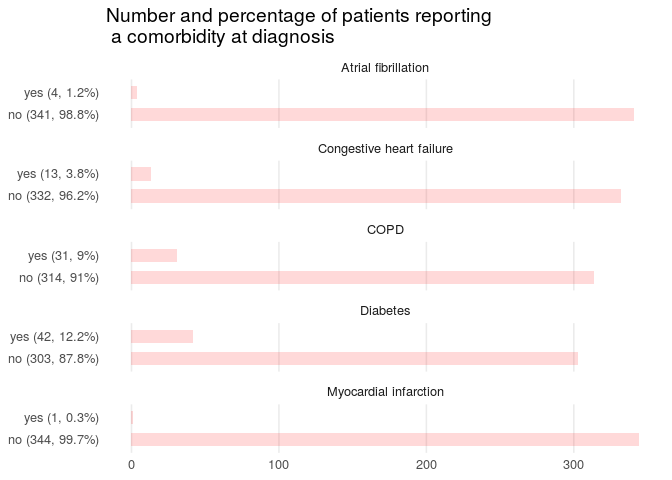
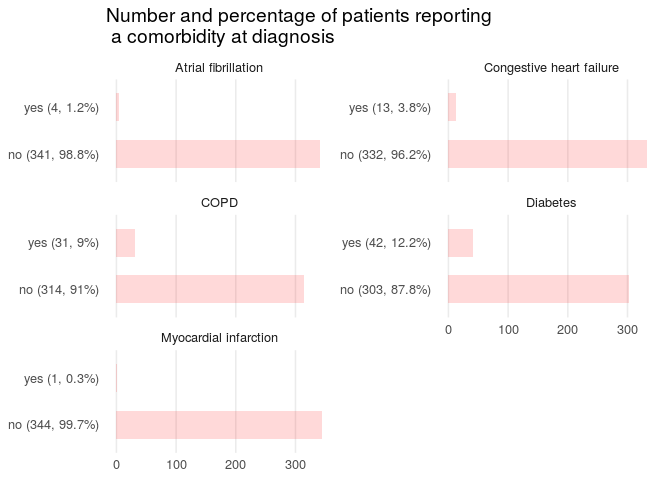
reconfig display

diff --git a/02_ida_univar_crs.md b/02_ida_univar_crs.md
@@ -207,7 +207,7 @@ crs %>%
            alpha = 0.15,
            fill = "red") +
   coord_flip() +
-  facet_wrap( ~ comorb, ncol = 1, scales = "free_y") +
+  facet_wrap( ~ comorb, ncol = 2, scales = "free_y") +
     ggtitle("Number and percentage of patients reporting\n a comorbidity at diagnosis") +
   theme_minimal(base_size = 12) +
   theme(
